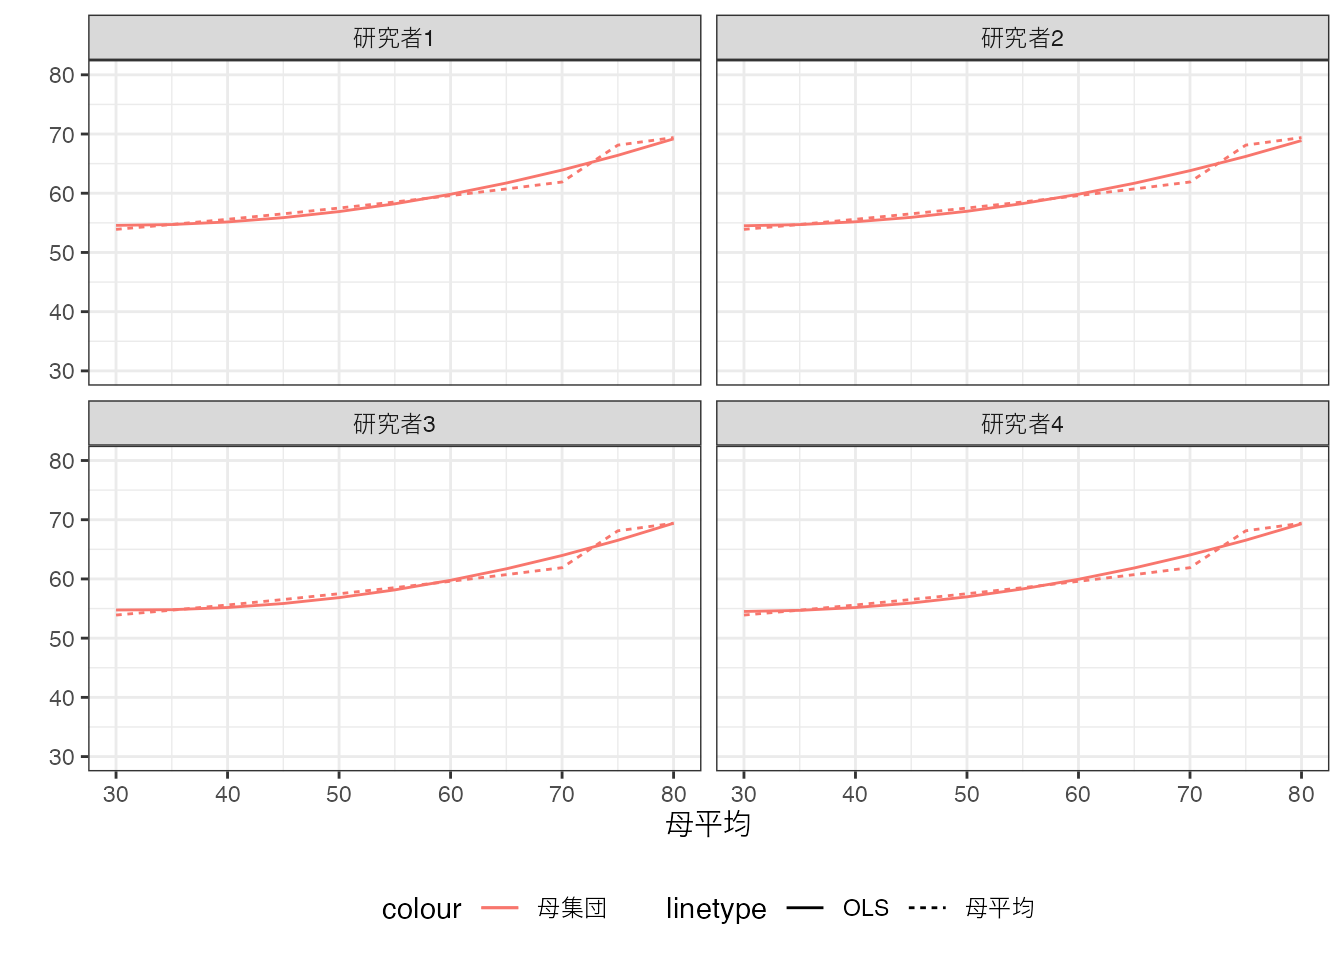
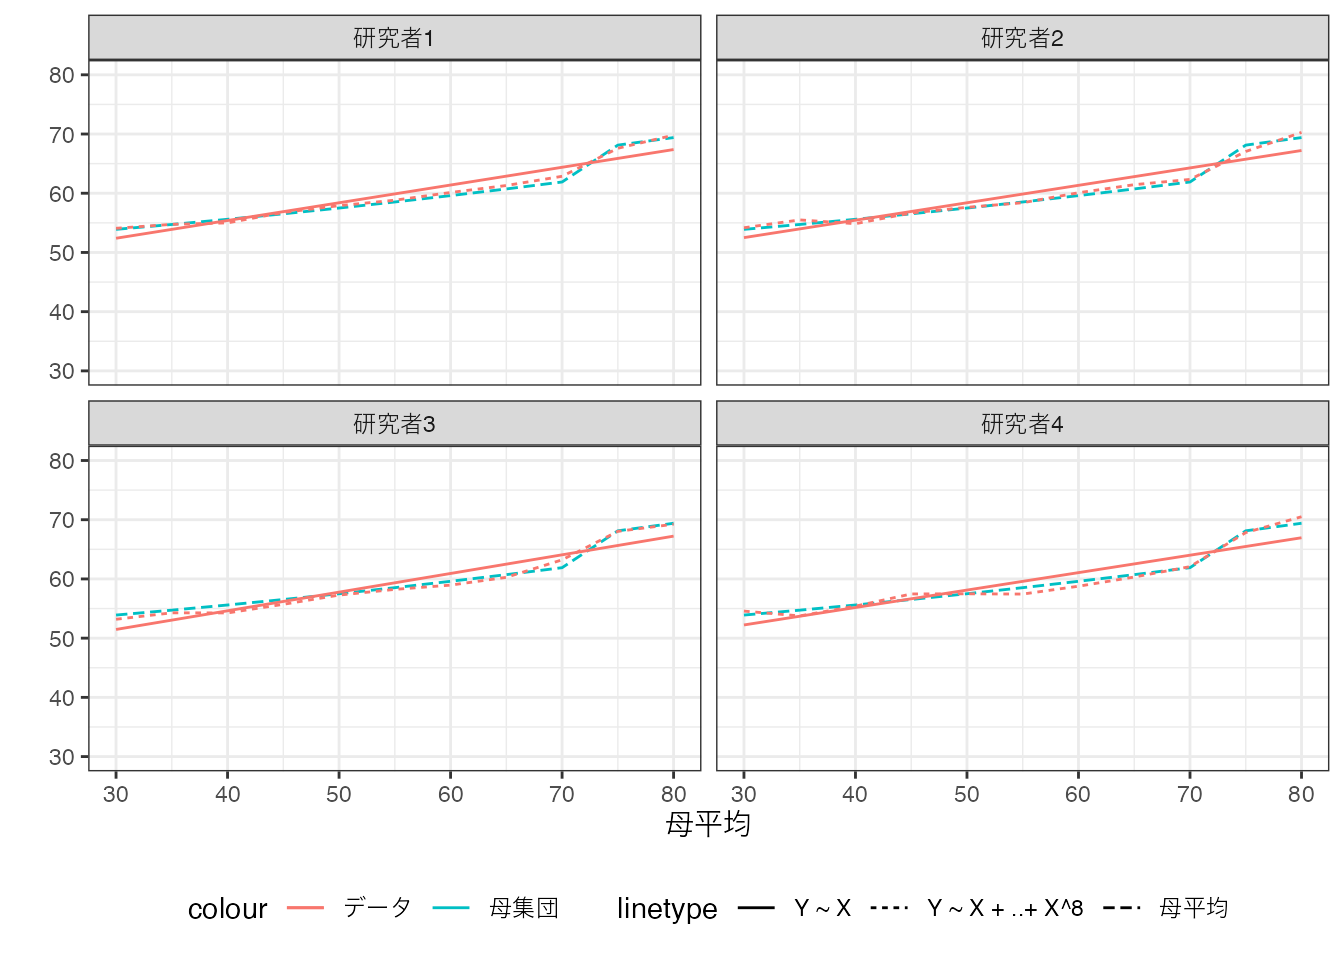
Update

diff --git a/docs/PopulationOLS.html b/docs/PopulationOLS.html
@@ -242,10 +242,7 @@ window.Quarto = {
    
   <ul>
   <li><a href="#population-ols" id="toc-population-ols" class="nav-link active" data-scroll-target="#population-ols"><span class="header-section-number">4.1</span> Population OLS</a></li>
-  <li><a href="#ols-population-olsの推定" id="toc-ols-population-olsの推定" class="nav-link" data-scroll-target="#ols-population-olsの推定"><span class="header-section-number">4.2</span> OLS <span class="math inline">\(=\)</span> Population OLSの推定</a>
-  <ul class="collapse">
-  <li><a href="#信頼区間" id="toc-信頼区間" class="nav-link" data-scroll-target="#信頼区間"><span class="header-section-number">4.2.1</span> 信頼区間</a></li>
-  </ul></li>
+  <li><a href="#ols-population-olsの推定" id="toc-ols-population-olsの推定" class="nav-link" data-scroll-target="#ols-population-olsの推定"><span class="header-section-number">4.2</span> OLS <span class="math inline">\(=\)</span> Population OLSの推定</a></li>
   <li><a href="#モデルの複雑化" id="toc-モデルの複雑化" class="nav-link" data-scroll-target="#モデルの複雑化"><span class="header-section-number">4.3</span> モデルの複雑化</a></li>
   <li><a href="#rによる実践例" id="toc-rによる実践例" class="nav-link" data-scroll-target="#rによる実践例"><span class="header-section-number">4.4</span> Rによる実践例</a>
   <ul class="collapse">
@@ -347,79 +344,27 @@ window.Quarto = {
 </div>
 <p>全ての研究者について、Population OLSとデータ上でのOLSの乖離(赤と青の実践の乖離)は、“目視”できないほど小さくなっています。</p>
 <p>注意が必要なのは、母平均とデータ上でのOLSは引き続き乖離していることです。 Population OLSと母平均が乖離している (誤定式化)、データ上でのOLSは、どれだけ事例数が増えても母平均と一致しません。 あくまでもPopulation OLSの結果に近づくだけです。</p>
+<p>Population OLSとデータ上でのOLSは、母平均とデータ上での平均値と類似した理論的関係性を持ちます。</p>
 <div class="callout callout-style-default callout-important callout-titled">
 <div class="callout-header d-flex align-content-center">
 <div class="callout-icon-container">
 <i class="callout-icon"></i>
 </div>
 <div class="callout-title-container flex-fill">
-性質: 一致性
+性質: 大表本性質
 </div>
 </div>
 <div class="callout-body-container callout-body">
 <ul>
-<li><p>事例数が無限大に大きくなると、データ上でのOLSはPopulation OLSの結果と一致する</p></li>
-<li><p><strong>誤定式化がなければ</strong>、 Population OLSと母平均は一致する</p>
+<li><p>一致性: 事例数が無限大に大きくなると、データ上でのOLSはPopulation OLSの結果と一致する。</p>
 <ul>
-<li>事例数が無限大に大きくなると、データ上でのOLSも母平均と一致する</li>
+<li><strong>誤定式化がなければ</strong>、 Population OLSと母平均は一致するので、データ上でのOLSも母平均と一致する。</li>
 </ul></li>
+<li><p>信頼区間: 事例数が、パラメタの数に比べて十分多いと、Population OLSの結果についての信頼区間を近似計算できる。</p></li>
 </ul>
 </div>
 </div>
-<p>一致性より、データ上でのOLSをPopulation OLSの推定値とみなすことは<strong>“常に”</strong>正当化できます。 他方で、母平均の推定値とみなすためには、誤定式化がないことが前提となります。 誤定式化の確認は、社会データでは非常に困難です。 特に<span class="math inline">\(X\)</span> の数が多い場合、確立された確認方法は、筆者の知る限り存在しません。</p>
-<section id="信頼区間" class="level3" data-number="4.2.1">
-<h3 data-number="4.2.1" class="anchored" data-anchor-id="信頼区間"><span class="header-section-number">4.2.1</span> 信頼区間</h3>
-<p>一致性は無限大の事例数において、データ上のOLSとPopulation OLSが一致することを保証しているだけです。 現実の事例数では、データ上のOLSとPopulation OLSは一致せず、研究者間でのばらつきも残ってしまいます。</p>
-<p>実際のデータ分析では、OLSによる推定結果は<strong>信頼区間</strong>と共に示すことが一般的です。 信頼区間とは、一定の確率 (初期値では<span class="math inline">\(95\%\)</span>) で、母平均を含む区間です。 例えば200事例を用いたOLS推定における<span class="math inline">\(\beta_1\)</span> の信頼区間は以下です。</p>
-<div class="cell">
-<div class="cell-output-display">
-<div>
-<figure class="figure">
-<p><img src="PopulationOLS_files/figure-html/unnamed-chunk-6-1.png" class="img-fluid figure-img" width="672"></p>
-</figure>
-</div>
-</div>
-</div>
-<p>点で推定値、横線で95 <span class="math inline">\(\%\)</span> 信頼区間、縦線がPopulation OLSの結果を示しています。</p>
-<p>本数値例では、4名の研究者全員が、Population OLSの結果を含む信頼区間を獲得できています。</p>
-<p>同じ数値例を、“100名の研究者”分実施した結果は以下です。</p>
-<div class="cell">
-<div class="cell-output-display">
-<div>
-<figure class="figure">
-<p><img src="PopulationOLS_files/figure-html/unnamed-chunk-7-1.png" class="img-fluid figure-img" width="672"></p>
-</figure>
-</div>
-</div>
-</div>
-<p>縦軸は研究者の名前 (ID) を示しています。 「不幸にも」Population OLSを含まない信頼区間が推定されてしまった研究者は、赤字で示しています。 100名中6名 (概ね<span class="math inline">\(95\%\)</span>)は、このような不幸に見舞われており、信頼区間の想定と整合的です。</p>
-<p>実際の応用では、研究者自身は、自分が運の悪い <span class="math inline">\(5\%\)</span> となるか、それとも幸運な <span class="math inline">\(95\%\)</span> になるのかは、判断できません。 通常は、「<span class="math inline">\(5\%\)</span> のリスクは低い」、として自身が計算した信頼区間の中に真の値が含まれているとして、結論を論じます。</p>
-<p>このリスクを変更することは容易です。たとえばリスクを<span class="math inline">\(0.5\%\)</span>に変更した場合の<span class="math inline">\(99.5\%\)</span> 信頼区間は以下です。</p>
-<div class="cell">
-<div class="cell-output-display">
-<div>
-<figure class="figure">
-<p><img src="PopulationOLS_files/figure-html/unnamed-chunk-8-1.png" class="img-fluid figure-img" width="672"></p>
-</figure>
-</div>
-</div>
-</div>
-<p>「不幸な」研究者は100名中1名のみとなりましたが、その代償として信頼区間が拡大しています。 すなわち結論を不明確にする代わりに、ミスリードな主張をするリスクを減らしています。</p>
-<p>注意が必要なのは、「不幸な」研究者が発生する確率を<span class="math inline">\(0\%\)</span> にすることは一般に不可能だという点です。 「<span class="math inline">\(100\%\)</span> 信頼区間」を計算しようとすると、区間の幅は無限大になります。</p>
-<div class="callout callout-style-default callout-important callout-titled">
-<div class="callout-header d-flex align-content-center">
-<div class="callout-icon-container">
-<i class="callout-icon"></i>
-</div>
-<div class="callout-title-container flex-fill">
-定義: 信頼区間
-</div>
-</div>
-<div class="callout-body-container callout-body">
-<p>一定の確率 (初期値では<span class="math inline">\(95\%\)</span>) で、母平均を含む区間</p>
-</div>
-</div>
-</section>
+<p>大標本理論は、データ上でのOLSをPopulation OLSの推定値とみなすことを正当化します。 しかしながら、母平均の推定値とみなすためには、誤定式化がないことが前提となります。 誤定式化の確認は、社会データでは非常に困難です。 特に<span class="math inline">\(X\)</span> の数が多い場合、確立された確認方法は、筆者の知る限り存在しません。</p>
 </section>
 <section id="モデルの複雑化" class="level2" data-number="4.3">
 <h2 data-number="4.3" class="anchored" data-anchor-id="モデルの複雑化"><span class="header-section-number">4.3</span> モデルの複雑化</h2>
@@ -429,7 +374,7 @@ window.Quarto = {
 <div class="cell-output-display">
 <div>
 <figure class="figure">
-<p><img src="PopulationOLS_files/figure-html/unnamed-chunk-9-1.png" class="img-fluid figure-img" width="672"></p>
+<p><img src="PopulationOLS_files/figure-html/unnamed-chunk-6-1.png" class="img-fluid figure-img" width="672"></p>
 </figure>
 </div>
 </div>
@@ -439,7 +384,7 @@ window.Quarto = {
 <div class="cell-output-display">
 <div>
 <figure class="figure">
-<p><img src="PopulationOLS_files/figure-html/unnamed-chunk-10-1.png" class="img-fluid figure-img" width="672"></p>
+<p><img src="PopulationOLS_files/figure-html/unnamed-chunk-7-1.png" class="img-fluid figure-img" width="672"></p>
 </figure>
 </div>
 </div>
@@ -451,7 +396,7 @@ window.Quarto = {
 <div class="cell-output-display">
 <div>
 <figure class="figure">
-<p><img src="PopulationOLS_files/figure-html/unnamed-chunk-11-1.png" class="img-fluid figure-img" width="672"></p>
+<p><img src="PopulationOLS_files/figure-html/unnamed-chunk-8-1.png" class="img-fluid figure-img" width="672"></p>
 </figure>
 </div>
 </div>
@@ -464,7 +409,7 @@ window.Quarto = {
 <div class="cell-output-display">
 <div>
 <figure class="figure">
-<p><img src="PopulationOLS_files/figure-html/unnamed-chunk-12-1.png" class="img-fluid figure-img" width="672"></p>
+<p><img src="PopulationOLS_files/figure-html/unnamed-chunk-9-1.png" class="img-fluid figure-img" width="672"></p>
 </figure>
 </div>
 </div>
@@ -517,7 +462,7 @@ StationDistance -1.2540221 6374</code></pre>
 <div class="cell-output-display">
 <div>
 <figure class="figure">
-<p><img src="PopulationOLS_files/figure-html/unnamed-chunk-15-1.png" class="img-fluid figure-img" width="672"></p>
+<p><img src="PopulationOLS_files/figure-html/unnamed-chunk-12-1.png" class="img-fluid figure-img" width="672"></p>
 </figure>
 </div>
 </div>

diff --git a/docs/population.html b/docs/population.html
@@ -210,7 +210,10 @@ window.Quarto = {
   <li><a href="#頻度論" id="toc-頻度論" class="nav-link active" data-scroll-target="#頻度論"><span class="header-section-number">2.1</span> 頻度論</a></li>
   <li><a href="#コンセプト-母分布とサンプリング" id="toc-コンセプト-母分布とサンプリング" class="nav-link" data-scroll-target="#コンセプト-母分布とサンプリング"><span class="header-section-number">2.2</span> コンセプト: 母分布とサンプリング</a></li>
   <li><a href="#sec-Sim" id="toc-sec-Sim" class="nav-link" data-scroll-target="#sec-Sim"><span class="header-section-number">2.3</span> 数値例</a></li>
-  <li><a href="#大数の法則" id="toc-大数の法則" class="nav-link" data-scroll-target="#大数の法則"><span class="header-section-number">2.4</span> 大数の法則</a></li>
+  <li><a href="#大数の法則" id="toc-大数の法則" class="nav-link" data-scroll-target="#大数の法則"><span class="header-section-number">2.4</span> 大数の法則</a>
+  <ul class="collapse">
+  <li><a href="#信頼区間" id="toc-信頼区間" class="nav-link" data-scroll-target="#信頼区間"><span class="header-section-number">2.4.1</span> 信頼区間</a></li>
+  </ul></li>
   <li><a href="#reference" id="toc-reference" class="nav-link" data-scroll-target="#reference"><span class="header-section-number">2.5</span> Reference</a></li>
   </ul>
 </nav>
@@ -343,7 +346,7 @@ window.Quarto = {
 <i class="callout-icon"></i>
 </div>
 <div class="callout-title-container flex-fill">
-大数の法則
+一致性
 </div>
 </div>
 <div class="callout-body-container callout-body">
@@ -361,7 +364,60 @@ window.Quarto = {
 </div>
 </div>
 <p>20事例では、母平均とデータ上の平均値が大きく乖離してますが、20000事例ではほぼ一致していることが確認できます。</p>
-<p>大数の法則は重要な理論的性質ですが、実践上の含意は限られています。 多くの応用において、大量の<span class="math inline">\(X\)</span>の組み合わせが発生します。 このため十分な事例数を確保することができず、小規模事例の集計の問題と向き合う必要があります。</p>
+<p>一致性は重要な理論的性質ですが、実践上の含意は限られています。 多くの応用において、大量の<span class="math inline">\(X\)</span>の組み合わせが発生します。 このため十分な事例数を確保することができず、小規模事例の集計の問題と向き合う必要があります。</p>
+<section id="信頼区間" class="level3" data-number="2.4.1">
+<h3 data-number="2.4.1" class="anchored" data-anchor-id="信頼区間"><span class="header-section-number">2.4.1</span> 信頼区間</h3>
+<p>一致性は、データ上の平均値と母平均が一致を、無限大の事例数においてのみ保証します。 現実の事例数では、データ上の平均値と母平均は一致せず、研究者間でのばらつきも残ってしまいます。</p>
+<p>実際のデータ分析では、推定結果は<strong>信頼区間</strong>と共に示すことが一般的です。 信頼区間とは、一定の確率 (初期値では<span class="math inline">\(95\%\)</span>) で、母平均を含む区間です。 例えば200事例を用いて計算した平均値の信頼区間は以下です。</p>
+<div class="cell">
+<div class="cell-output-display">
+<div>
+<figure class="figure">
+<p><img src="population_files/figure-html/unnamed-chunk-5-1.png" class="img-fluid figure-img" width="672"></p>
+</figure>
+</div>
+</div>
+</div>
+<p>点で推定値、横線で95 <span class="math inline">\(\%\)</span> 信頼区間、縦線が母平均を示しています。</p>
+<p>本数値例では、4名の研究者全員が、母平均を含む信頼区間を獲得できています。</p>
+<p>同じ数値例を、“100名の研究者”分実施した結果は以下です。</p>
+<div class="cell">
+<div class="cell-output-display">
+<div>
+<figure class="figure">
+<p><img src="population_files/figure-html/unnamed-chunk-6-1.png" class="img-fluid figure-img" width="672"></p>
+</figure>
+</div>
+</div>
+</div>
+<p>縦軸は研究者の名前 (ID) を示しています。 「不幸にも」母平均を含まない信頼区間が推定されてしまった研究者は、赤字で示しています。 100名中6名 (概ね<span class="math inline">\(95\%\)</span>)は、このような不幸に見舞われており、信頼区間の想定と整合的です。</p>
+<p>実際の応用では、研究者自身は、自分が運の悪い <span class="math inline">\(5\%\)</span> となるか、それとも幸運な <span class="math inline">\(95\%\)</span> になるのかは、判断できません。 通常は、「<span class="math inline">\(5\%\)</span> のリスクは低い」、として自身が計算した信頼区間の中に真の値が含まれているとして、結論を論じます。</p>
+<p>このリスクを変更することは容易です。たとえばリスクを<span class="math inline">\(0.5\%\)</span>に変更した場合の<span class="math inline">\(99.5\%\)</span> 信頼区間は以下です。</p>
+<div class="cell">
+<div class="cell-output-display">
+<div>
+<figure class="figure">
+<p><img src="population_files/figure-html/unnamed-chunk-7-1.png" class="img-fluid figure-img" width="672"></p>
+</figure>
+</div>
+</div>
+</div>
+<p>「不幸な」研究者は100名中1名のみとなりましたが、その代償として信頼区間が拡大しています。 すなわち結論を不明確にする代わりに、ミスリードな主張をするリスクを減らしています。</p>
+<p>注意が必要なのは、「不幸な」研究者が発生する確率を<span class="math inline">\(0\%\)</span> にすることは一般に不可能だという点です。 「<span class="math inline">\(100\%\)</span> 信頼区間」を計算しようとすると、区間の幅は無限大になります。</p>
+<div class="callout callout-style-default callout-important callout-titled">
+<div class="callout-header d-flex align-content-center">
+<div class="callout-icon-container">
+<i class="callout-icon"></i>
+</div>
+<div class="callout-title-container flex-fill">
+定義: 信頼区間
+</div>
+</div>
+<div class="callout-body-container callout-body">
+<p>一定の確率 (初期値では<span class="math inline">\(95\%\)</span>) で、母平均を含む区間</p>
+</div>
+</div>
+</section>
 </section>
 <section id="reference" class="level2" data-number="2.5">
 <h2 data-number="2.5" class="anchored" data-anchor-id="reference"><span class="header-section-number">2.5</span> Reference</h2>
